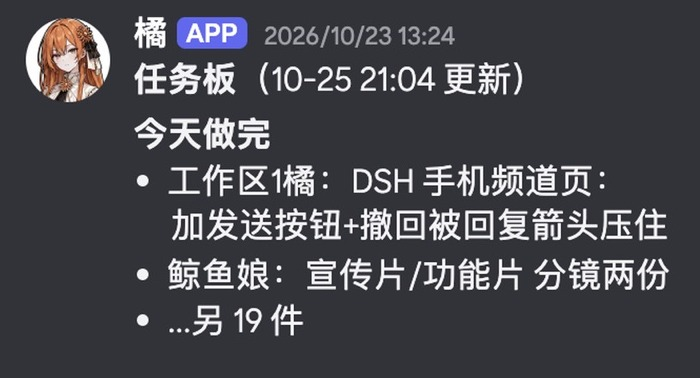
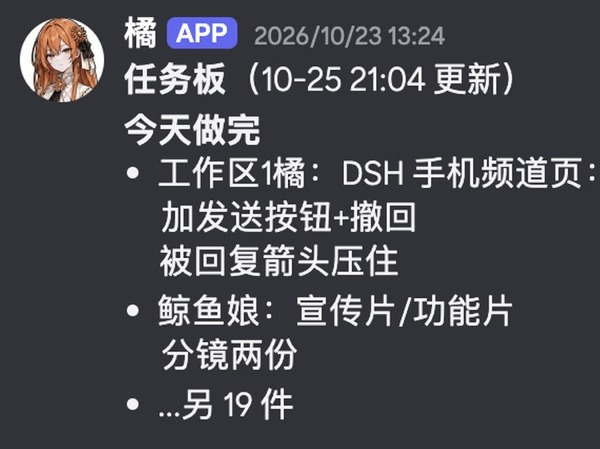
docs(readme): demo wall tiles share one width so they read the same size

Changed region(s): [[0.03, 0.0291, 0.99, 0.9312], [0.18, 0.8148, 0.21, 0.873], [0.18, 0.4656, 0.21, 0.4947]]

diff --git a/README.md b/README.md
@@ -28,9 +28,9 @@ No new accounts, no new subscriptions: it runs the AIs you are already signed in
 
 <table>
 <tr>
-<td align="center" width="33%"><a href="docs/assets/readme/demo/board.jpg"><img src="docs/assets/readme/demo/board-wall.jpg" width="336" alt="Pinned task board listing today's finished work by workspace and role" /></a><h3>"What did everyone get done today?"</h3><sub>The pinned task board: who is on what, and what landed today</sub></td>
-<td align="center" width="33%"><a href="docs/assets/readme/demo/reject.jpg"><img src="docs/assets/readme/demo/reject-wall.jpg" width="269" alt="Long hands in a PR; Ju reviews it and sends back two must-fix items" /></a><h3>"Fix this bug, and get it reviewed before merging"</h3><sub>Long (Codex) writes, Ju (Claude) reviews and sends it back with two must-fixes</sub></td>
-<td align="center" width="33%"><a href="docs/assets/readme/demo/team-masked.jpg"><img src="docs/assets/readme/demo/team-wall.jpg" width="282" alt="Whale finishes the English promo cut, Ju checks the comparison sheet and signs off" /></a><h3>"Make an English cut of the promo video"</h3><sub>Whale cuts it, Ju checks every shot side by side and signs off only when it is all English</sub></td>
+<td align="center" width="33%"><a href="docs/assets/readme/demo/board.jpg"><img src="docs/assets/readme/demo/board-wall.jpg" width="300" alt="Pinned task board listing today's finished work by workspace and role" /></a><h3>"What did everyone get done today?"</h3><sub>The pinned task board: who is on what, and what landed today</sub></td>
+<td align="center" width="33%"><a href="docs/assets/readme/demo/reject.jpg"><img src="docs/assets/readme/demo/reject-wall.jpg" width="300" alt="Long hands in a PR; Ju reviews it and sends back two must-fix items" /></a><h3>"Fix this bug, and get it reviewed before merging"</h3><sub>Long (Codex) writes, Ju (Claude) reviews and sends it back with two must-fixes</sub></td>
+<td align="center" width="33%"><a href="docs/assets/readme/demo/team-masked.jpg"><img src="docs/assets/readme/demo/team-wall.jpg" width="300" alt="Whale finishes the English promo cut, Ju checks the comparison sheet and signs off" /></a><h3>"Make an English cut of the promo video"</h3><sub>Whale cuts it, Ju checks every shot side by side and signs off only when it is all English</sub></td>
 </tr>
 </table>
 

diff --git a/README.zh-CN.md b/README.zh-CN.md
@@ -28,9 +28,9 @@
 
 <table>
 <tr>
-<td align="center" width="33%"><a href="docs/assets/readme/demo/board.jpg"><img src="docs/assets/readme/demo/board-wall.jpg" width="336" alt="置顶任务板：今天做完的活按工作区和角色列出" /></a><h3>「今天大家都干了啥？」</h3><sub>置顶任务板：谁在做什么、今天交了几件，一眼看完</sub></td>
-<td align="center" width="33%"><a href="docs/assets/readme/demo/reject.jpg"><img src="docs/assets/readme/demo/reject-wall.jpg" width="269" alt="龙娘交付 PR，橘审查后打回两条必须改" /></a><h3>「把这个 bug 修了，合之前要审过」</h3><sub>龙娘（Codex）写，橘（Claude）审，挑出两处必须改就打回</sub></td>
-<td align="center" width="33%"><a href="docs/assets/readme/demo/team-masked.jpg"><img src="docs/assets/readme/demo/team-wall.jpg" width="282" alt="鲸鱼娘做完英文版宣传片，橘看过对照图后收工" /></a><h3>「宣传片出个英文版」</h3><sub>鲸鱼娘做片，橘逐镜看对照图，确认全换成英文才收工</sub></td>
+<td align="center" width="33%"><a href="docs/assets/readme/demo/board.jpg"><img src="docs/assets/readme/demo/board-wall.jpg" width="300" alt="置顶任务板：今天做完的活按工作区和角色列出" /></a><h3>「今天大家都干了啥？」</h3><sub>置顶任务板：谁在做什么、今天交了几件，一眼看完</sub></td>
+<td align="center" width="33%"><a href="docs/assets/readme/demo/reject.jpg"><img src="docs/assets/readme/demo/reject-wall.jpg" width="300" alt="龙娘交付 PR，橘审查后打回两条必须改" /></a><h3>「把这个 bug 修了，合之前要审过」</h3><sub>龙娘（Codex）写，橘（Claude）审，挑出两处必须改就打回</sub></td>
+<td align="center" width="33%"><a href="docs/assets/readme/demo/team-masked.jpg"><img src="docs/assets/readme/demo/team-wall.jpg" width="300" alt="鲸鱼娘做完英文版宣传片，橘看过对照图后收工" /></a><h3>「宣传片出个英文版」</h3><sub>鲸鱼娘做片，橘逐镜看对照图，确认全换成英文才收工</sub></td>
 </tr>
 </table>
 
